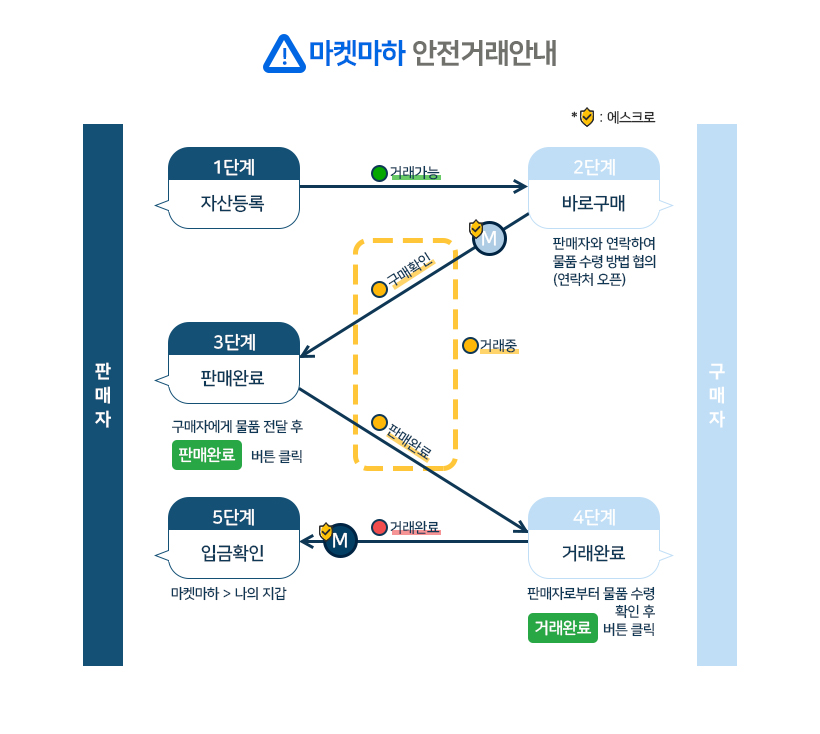
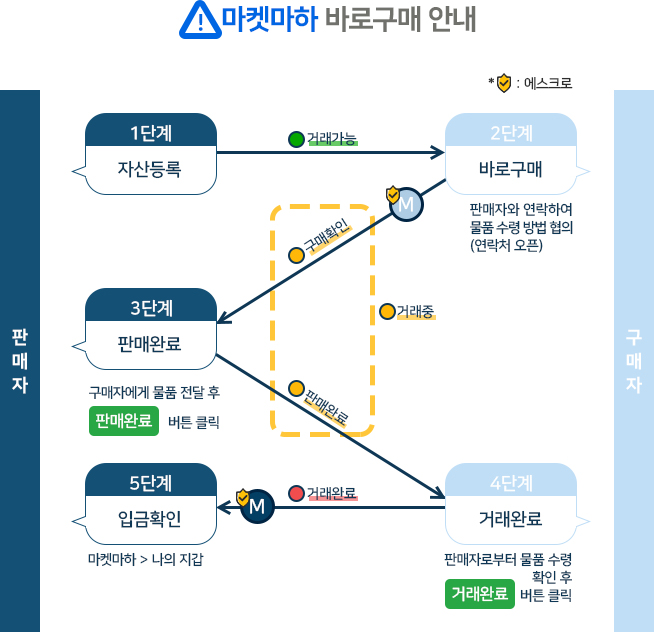
[바로구매 가이드] URL 변경

diff --git a/views/v2/howto/tradebuynow.html b/views/v2/howto/tradebuynow.html
@@ -15,29 +15,11 @@
     <!-- content_wrap -->
     <div class="content_wrap">
         <div class="sub_container container">
-            <div class="content_tab_depth1">
-                <ul class="cf">
-                    <li class="on"><a href="/howto/trade/vtr">거래안내</a></li>
-                    <li><a href="/howto/buymach/wallet">MACH 구매</a></li>
-                    <li><a href="/howto/safeTrade/escrow">안전거래 안내</a></li>
-                    <li><a href="/howto/etc/csbot">기타</a></li>
-                </ul>
+            <div class="tac">
+                <img style="margin-top:50px" src="/static/img/sub/safety_transaction_information.jpg" alt="">
             </div>
-
-            <section class="howto_sec">
-                <div class="content_tab_depth2">
-                    <ul class="cf">
-                        <li><a href="/howto/trade/vtr">VTR 사용법</a></li>
-                        <li class="on"><a href="/howto/trade/buynow">바로구매</a></li>
-                    </ul>
-                </div>
-                <h1 class="tit_howto">바로구매</h1>       
-                <div>
-                    - 바로 구매 : 팝니다의 경우에만 바로구매 가능, 구매자의 roll
-                </div>
-            </section>  
         </div>
-    </div>
+    </div>    
     
     <% include ../include/footer.html %>
 </div>

diff --git a/views/v2_en/howto/tradebuynow.html b/views/v2_en/howto/tradebuynow.html
@@ -15,27 +15,9 @@
     <!-- content_wrap -->
     <div class="content_wrap">
         <div class="sub_container container">
-            <div class="content_tab_depth1">
-                <ul class="cf">
-                    <li class="on"><a href="/howto/trade/vtr">거래안내</a></li>
-                    <li><a href="/howto/buymach/wallet">MACH 구매</a></li>
-                    <li><a href="/howto/safeTrade/escrow">안전거래 안내</a></li>
-                    <li><a href="/howto/etc/csbot">기타</a></li>
-                </ul>
+            <div class="tac">
+                <img style="margin-top:50px" src="/static/img/sub/safety_transaction_information.jpg" alt="">
             </div>
-
-            <section class="howto_sec">
-                <div class="content_tab_depth2">
-                    <ul class="cf">
-                        <li><a href="/howto/trade/vtr">VTR 사용법</a></li>
-                        <li class="on"><a href="/howto/trade/buynow">바로구매</a></li>
-                    </ul>
-                </div>
-                <h1 class="tit_howto">바로구매</h1>       
-                <div>
-                    - 바로 구매 : 팝니다의 경우에만 바로구매 가능, 구매자의 roll
-                </div>
-            </section>  
         </div>
     </div>
     

diff --git a/views/v2_point/howto/tradebuynow.html b/views/v2_point/howto/tradebuynow.html
@@ -15,27 +15,9 @@
     <!-- content_wrap -->
     <div class="content_wrap">
         <div class="sub_container container">
-            <div class="content_tab_depth1">
-                <ul class="cf">
-                    <li class="on"><a href="/howto/trade/vtr">거래안내</a></li>
-                    <li><a href="/howto/buymach/wallet">MACH 구매</a></li>
-                    <li><a href="/howto/safeTrade/escrow">안전거래 안내</a></li>
-                    <li><a href="/howto/etc/csbot">기타</a></li>
-                </ul>
+            <div class="tac">
+                <img style="margin-top:50px" src="/static/img/sub/safety_transaction_information.jpg" alt="">
             </div>
-
-            <section class="howto_sec">
-                <div class="content_tab_depth2">
-                    <ul class="cf">
-                        <li><a href="/howto/trade/vtr">VTR 사용법</a></li>
-                        <li class="on"><a href="/howto/trade/buynow">바로구매</a></li>
-                    </ul>
-                </div>
-                <h1 class="tit_howto">바로구매</h1>       
-                <div>
-                    - 바로 구매 : 팝니다의 경우에만 바로구매 가능, 구매자의 roll
-                </div>
-            </section>  
         </div>
     </div>
     

diff --git a/public/static/css/renewer.css b/public/static/css/renewer.css
@@ -29,7 +29,7 @@
 .renewer_container .main_3n1n_wrap > section:nth-child(2){background-color: #cad4d9;}
 .renewer_container .main_3n1n_wrap > section:nth-child(3){background-color: #e9ebdd;}
 .renewer_container .guide_sec{}
-.renewer_container .guide_sec a{color: #000000;}
+.renewer_container .guide_sec a{display: block; height: 100%; color: #000000;}
 .renewer_container .guide_sec h1{padding: 35px 0 20px 45px; line-height: 1.4;}
 .renewer_container .guide_sec .ico_round{margin-right: 5%; float: right; width: 135px; height: 135px; border-radius: 50%;}
 .renewer_container .guide_sec .ico_guide01{background: #fff url(/static/img/symbol/ico_guide01.png) 50% 50% no-repeat; background-size: 190px 200px;}

diff --git a/views/v2_en/main/index.html b/views/v2_en/main/index.html
@@ -526,8 +526,8 @@
                     </a>
                 </section>
                 <section class="guide_sec">
-                    <a href="/howto/safty_trade">
-                        <h1>MarketMACH<br>Safty trading<br>Guide</h1>
+                    <a href="/howto/trade/buynow">
+                        <h1>MarketMACH<br>Trading process<br>Guide</h1>
                         <div class="ico_round ico_guide02"></div>
                     </a>
                 </section>

diff --git a/views/v2_point/main/index.html b/views/v2_point/main/index.html
@@ -482,7 +482,7 @@
                     </a>
                 </section>
                 <section class="guide_sec">
-                    <a href="/howto/safty_trade">
+                    <a href="/howto/trade/buynow">
                         <h1>포인트몰<br>바로구매 가이드</h1>
                         <div class="ico_round ico_guide02"></div>
                     </a>
